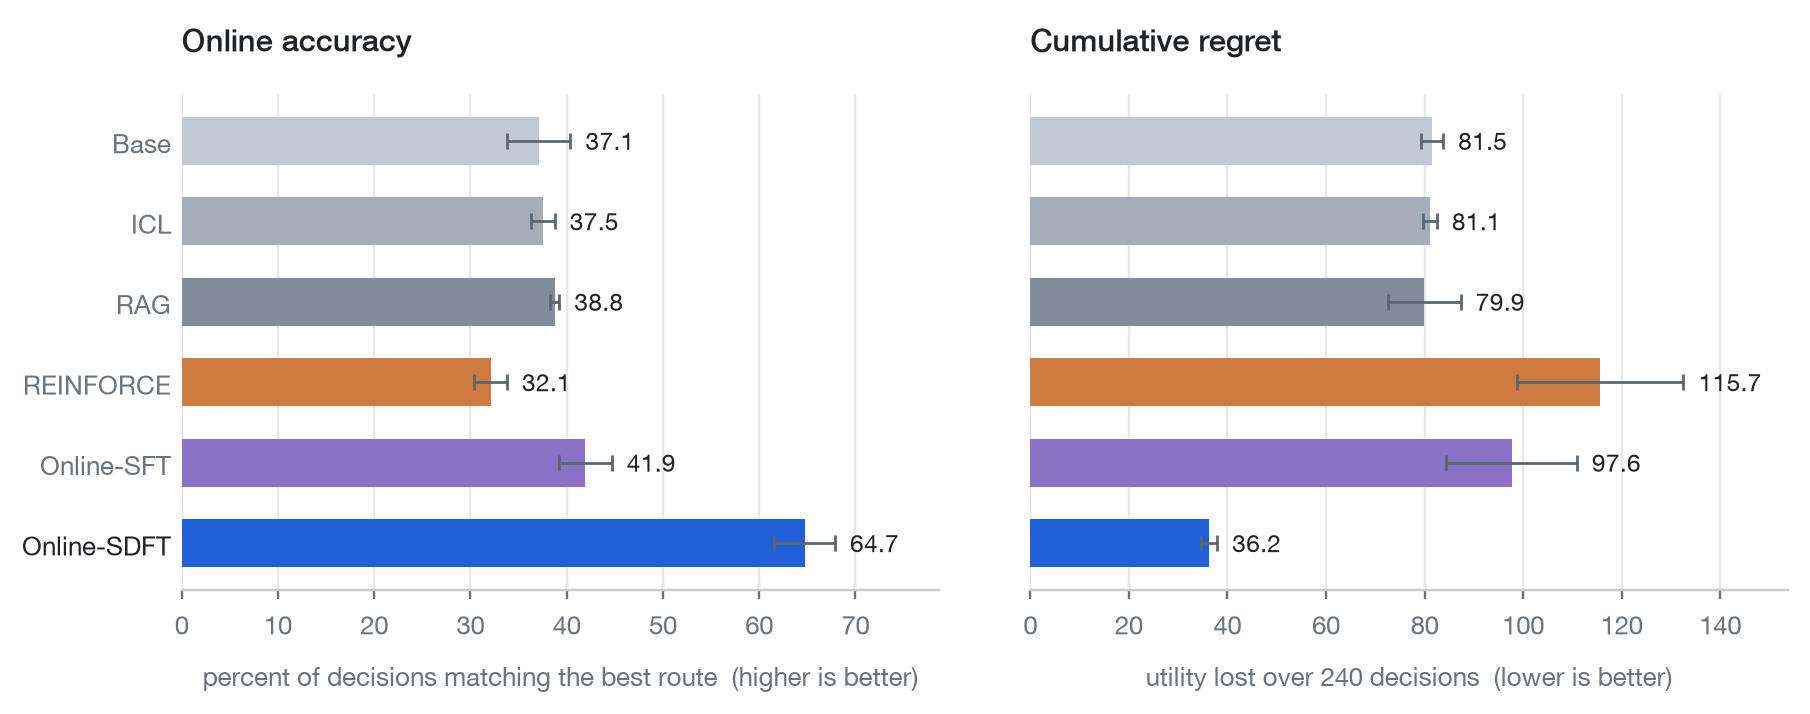
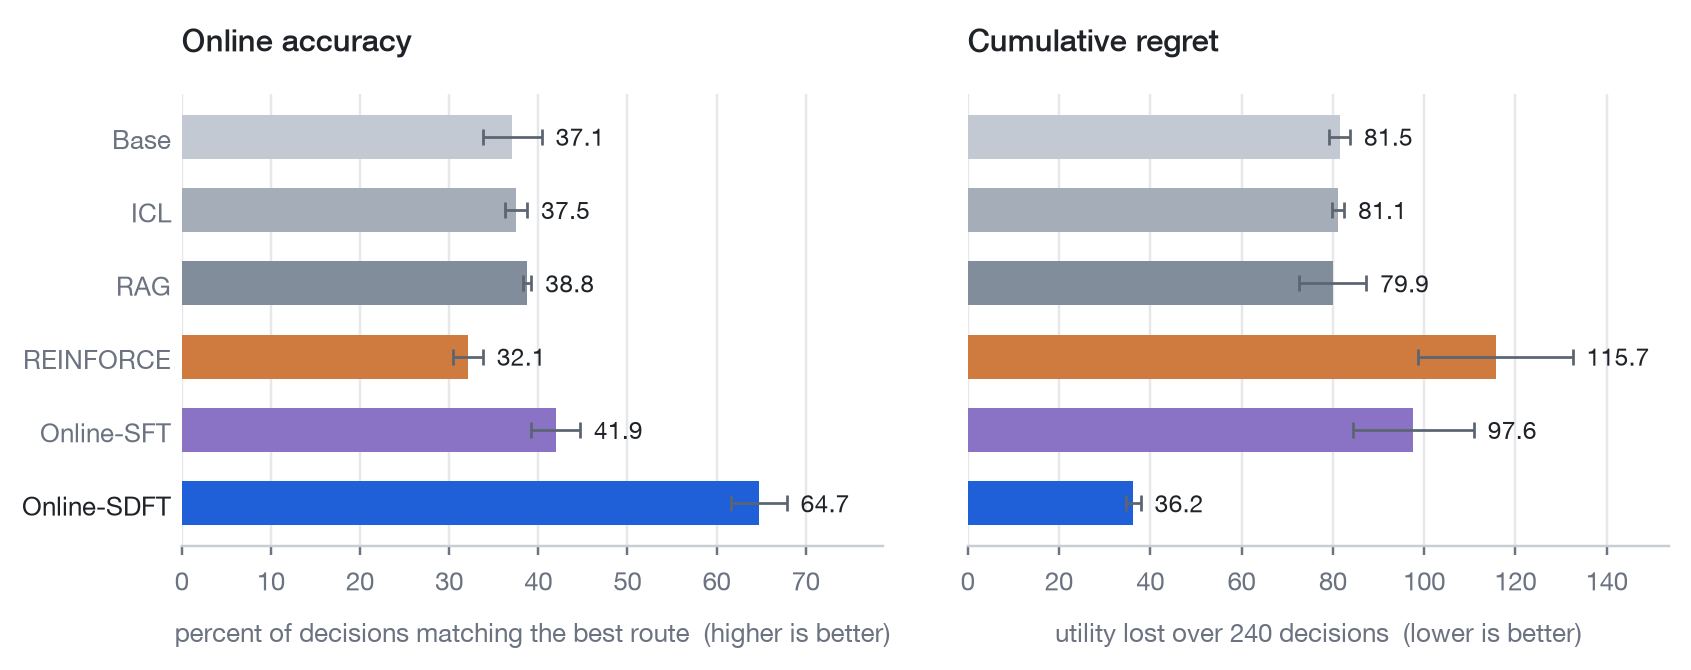
Bring figure width in line with the reading column
Measuring the reference site showed its figures sit only about 6% wider than
the text column, not the 21% breakout used here. Figures now stop at 47rem
against the 43rem column, drop their borders in favour of the 4px radius the
reference uses, and center their captions.

Plot canvases shrink to match, so label sizes hold at 11-12px instead of
scaling down with the narrower container.

diff --git a/website/styles.css b/website/styles.css
@@ -13,7 +13,7 @@
   --serif: "Source Serif 4", "Iowan Old Style", Charter, Georgia, serif;
   --mono: "SFMono-Regular", Consolas, "Liberation Mono", Menlo, monospace;
   --measure: 43rem;
-  --wide: 52rem;
+  --wide: 47rem;
 }
 
 * { box-sizing: border-box; }
@@ -180,7 +180,7 @@ blockquote p:last-child { margin: 0; }
 /* Figures */
 .figure {
   width: min(var(--wide), calc(100vw - 2.5rem));
-  margin: 2.25rem 0;
+  margin: 2rem 0;
   margin-left: 50%;
   transform: translateX(-50%);
   text-align: center;
@@ -188,18 +188,16 @@ blockquote p:last-child { margin: 0; }
 .figure img {
   margin: 0 auto;
   max-height: 70vh;
-  border: 1px solid var(--line-soft);
-  border-radius: 8px;
+  border-radius: 4px;
   background: #fff;
 }
 .figure figcaption {
   max-width: var(--measure);
-  margin: 1rem auto 0;
+  margin: .75rem auto 0;
   color: var(--faint);
   font-family: var(--sans);
-  font-size: .78rem;
-  line-height: 1.6;
-  text-align: left;
+  font-size: .84rem;
+  line-height: 1.55;
 }
 .figure figcaption b,
 .figure figcaption strong { color: var(--ink-soft); font-weight: 620; }

diff --git a/website/make_teaser.py b/website/make_teaser.py
@@ -30,6 +30,9 @@ TEAL = "#0f6f63"
 TEAL_SOFT = "#eaf3f1"
 
 FONT_STACK = ["Helvetica Neue", "Helvetica", "Arial", "DejaVu Sans"]
+# Sizes below are authored against the layout grid; this scales them so the
+# rendered labels land near 11-12px at the article's figure width.
+TEXT_SCALE = 1.1
 
 
 def _box(axis, x, y, width, height, *, fill="white", edge=LINE, lw=1.0, radius=1.4):
@@ -68,7 +71,8 @@ def _arrow(axis, start, end, *, color=LINE, lw=1.2, style="-", connection="arc3,
 def _text(axis, x, y, label, *, size=8.5, color=INK, weight="normal", ha="center"):
     axis.text(
         x, y, label,
-        ha=ha, va="center", fontsize=size, color=color, fontweight=weight, zorder=4,
+        ha=ha, va="center", fontsize=size * TEXT_SCALE, color=color,
+        fontweight=weight, zorder=4,
     )
 
 
@@ -76,24 +80,24 @@ def draw_teaser(output_path: Path) -> None:
     matplotlib.rcParams.update(
         {"font.family": "sans-serif", "font.sans-serif": FONT_STACK}
     )
-    figure, axis = plt.subplots(figsize=(7.8, 3.2))
+    figure, axis = plt.subplots(figsize=(7.3, 3.0))
     axis.set_xlim(0, 100)
     axis.set_ylim(0, 40)
     axis.axis("off")
 
     # Incoming stream of requests.
     for offset, shade in ((3.0, "#f1f3f6"), (1.5, "#e9ecf1"), (0.0, "white")):
-        _box(axis, 2 + offset, 21 + offset * 0.9, 13, 7.4, fill=shade, edge=LINE)
-    _text(axis, 8.5, 26.4, "10:47 p.m. receipt", size=7.6, color=INK)
-    _text(axis, 8.5, 23.6, "importance 0.31", size=7, color=MUTED)
+        _box(axis, 1.5 + offset, 21 + offset * 0.9, 14.5, 7.4, fill=shade, edge=LINE)
+    _text(axis, 8.7, 26.4, "10:47 p.m. receipt", size=7.6, color=INK)
+    _text(axis, 8.7, 23.6, "importance 0.31", size=7, color=MUTED)
     _text(axis, 9.0, 17.6, "one request at a time", size=7.4, color=MUTED)
 
-    _arrow(axis, (16, 24.7), (22.4, 24.7), color=FAINT, lw=1.1)
+    _arrow(axis, (17.2, 24.7), (22.4, 24.7), color=FAINT, lw=1.1)
 
     # On-device student.
-    _box(axis, 23, 12.6, 21, 21.9, fill="white", edge=LINE, lw=1.1)
-    _text(axis, 33.5, 31.6, "on-device student", size=8, color=INK, weight="bold")
-    _text(axis, 33.5, 28.8, "frozen 230M LFM + LoRA", size=7, color=MUTED)
+    _box(axis, 23, 12.6, 22.2, 21.9, fill="white", edge=LINE, lw=1.1)
+    _text(axis, 34.1, 31.6, "on-device student", size=8, color=INK, weight="bold")
+    _text(axis, 34.1, 28.8, "frozen 230M LFM + LoRA", size=7, color=MUTED)
     routes = (("INTERRUPT", 0.18), ("LATER", 0.29), ("ARCHIVE", 0.53))
     for index, (name, probability) in enumerate(routes):
         y = 25.2 - index * 3.8
@@ -113,7 +117,7 @@ def draw_teaser(output_path: Path) -> None:
                 facecolor=ACCENT if chosen else "#b9c1cc", edgecolor="none", zorder=4,
             )
         )
-    _text(axis, 33.5, 15.0, "acts before any feedback exists", size=7, color=MUTED)
+    _text(axis, 34.1, 15.0, "acts before any feedback exists", size=6.6, color=MUTED)
 
     # Three routes; only one of them is ever executed.
     _text(axis, 67, 37.8, "one route executes", size=7.8, color=INK)
@@ -122,7 +126,7 @@ def draw_teaser(output_path: Path) -> None:
     for name, y, executed in lanes:
         rad = 0.0 if abs(y - 24.0) < 0.1 else (0.1 if y > 24.0 else -0.1)
         _arrow(
-            axis, (44.6, 24.0), (55.4, y),
+            axis, (45.8, 24.0), (55.4, y),
             color=ACCENT if executed else "#d2d7de",
             lw=1.6 if executed else 1.0,
             style="-" if executed else (0, (3, 2.4)),
@@ -163,16 +167,16 @@ def draw_teaser(output_path: Path) -> None:
     # Update loop back into the student, routed below the row so it cannot be
     # confused with the forward path. The caption sits on the line.
     axis.plot(
-        [90.5, 90.5, 33.5, 33.5],
+        [90.5, 90.5, 34.1, 34.1],
         [9.3, 4.6, 4.6, 10.2],
         color=TEAL, lw=1.3, solid_capstyle="round", solid_joinstyle="round",
         zorder=2,
     )
-    _arrow(axis, (33.5, 10.0), (33.5, 12.4), color=TEAL, lw=1.3)
+    _arrow(axis, (34.1, 10.0), (34.1, 12.4), color=TEAL, lw=1.3)
     axis.text(
         62, 4.6,
         "the update helps the next decision, never this one",
-        ha="center", va="center", fontsize=7.4, color=TEAL, zorder=6,
+        ha="center", va="center", fontsize=7.4 * TEXT_SCALE, color=TEAL, zorder=6,
         bbox={"facecolor": "white", "edgecolor": "none", "pad": 3},
     )
 

diff --git a/online_sdft/reporting.py b/online_sdft/reporting.py
@@ -217,7 +217,7 @@ def write_figures(
     ordered = list(METHODS)
     positions = np.arange(len(ordered))
 
-    figure, axes = plt.subplots(1, 2, figsize=(8.2, 3.2), sharey=True)
+    figure, axes = plt.subplots(1, 2, figsize=(7.7, 3.0), sharey=True)
     panels = (
         (
             axes[0],
@@ -290,7 +290,7 @@ def write_figures(
         accuracy_by_step[key].append(float(row["cum_accuracy"]))
         regret_by_step[key].append(float(row["cum_regret"]))
 
-    figure, axes = plt.subplots(1, 2, figsize=(8.2, 3.3))
+    figure, axes = plt.subplots(1, 2, figsize=(7.7, 3.1))
     handles = []
     for method in ordered:
         steps = sorted(step for name, step in accuracy_by_step if name == method)

diff --git a/HANDOFF.md b/HANDOFF.md
@@ -241,8 +241,9 @@ back one section at a time on top of this render.
 
 The user prefers this article style over a product landing page. Preserve:
 
-- narrow reading column, with figures breaking out only modestly (`--wide` is
-  52rem against a 43rem text column) and captions aligned to the text column;
+- narrow reading column, with figures breaking out only slightly (`--wide` is
+  47rem against a 43rem text column, roughly the 6% ratio the reference site
+  uses) and centered captions constrained to the text column;
 - the story order: online continual learning first, bandit formulation second;
 - semantic headings, alt text, and reduced-motion handling;
 - precise, professional copy without playful metaphors.
@@ -271,8 +272,9 @@ method styling, and the site accent matches them.
 
 `run.py --figures-only` redraws the result plots from the stored artifacts in
 `outputs/bandit/`, so the published figures can be restyled without a GPU or a
-rerun. Plot text is sized for the 52rem display width: keep the figure widths
-near 8 inches so the labels stay legible next to 17px body text.
+rerun. Plot text is sized for the 47rem (752px) display width: keep figure
+widths near 7.7 inches so labels render around 11–12px, matching the reference
+site and sitting just under the 13.5px captions.
 
 The workflow runs the site builder and copies those four figures into `_site`.
 
